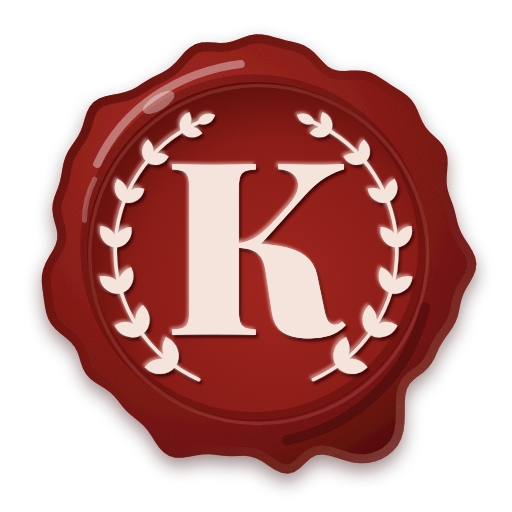
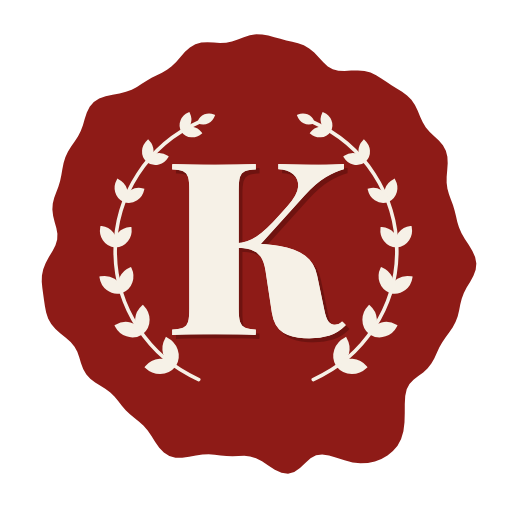
Герои: натюрморт целиком в кадре, только приближение; печать снова плоская; печать с названием в шапке ведёт на главную

Changed region(s): [[0.0625, 0.0625, 0.9375, 0.9688], [0.8125, 0.2188, 0.8438, 0.25], [0.5312, 0.625, 0.5625, 0.6562]]

diff --git a/index.html b/index.html
@@ -111,7 +111,10 @@ button:focus-visible,input:focus-visible,[tabindex]:focus-visible{outline:2px so
 /* ---------- masthead band ---------- */
 .top{position:absolute;left:0;right:0;top:0;height:var(--mast);box-sizing:border-box;display:flex;align-items:center;justify-content:space-between;gap:10px;padding:0 var(--s-lg);z-index:3;
   background:var(--ink);color:var(--canvas);}
-.logo{font-family:var(--display);font-weight:400;font-size:24px;letter-spacing:-.01em;line-height:1;color:var(--canvas);}
+.logo{display:inline-flex;align-items:center;gap:8px;padding:0;border:0;background:none;cursor:pointer;font-family:var(--display);font-weight:400;font-size:24px;letter-spacing:-.01em;line-height:1;color:var(--canvas);}
+.drag-hint.zoomy svg{display:none;}
+.logo img{width:34px;height:34px;flex:none;transition:transform .2s var(--ease-in);}
+.logo:hover img,.logo:focus-visible img{transform:rotate(-8deg) scale(1.08);}
 .top-right{display:flex;align-items:stretch;height:100%;}
 .plate{display:inline-flex;align-items:center;gap:5px;padding:0 var(--s-md);white-space:nowrap;
   font-family:var(--ui);font-size:12px;font-weight:500;letter-spacing:.06em;text-transform:uppercase;color:#b5b5b5;border-left:1px solid #333;}
@@ -540,11 +543,11 @@ body.present #resTiles,body.present .legend,body.present .rrow .p{display:none!i
   <div class="vignette"></div>
   <div class="drag-hint" id="dragHint">
     <svg viewBox="0 0 24 24" fill="none" stroke="currentColor" stroke-width="1.6" stroke-linecap="round" stroke-linejoin="round"><path d="M4 12h16M4 12l3-3M4 12l3 3M20 12l-3-3M20 12l-3 3"/></svg>
-    Потяните, чтобы осмотреться
+    <span id="dragTxt">Потяните, чтобы осмотреться</span>
   </div>
 
   <header class="top">
-    <div class="logo">Книгоскопъ</div>
+    <button class="logo" id="btnHome" title="На главную" aria-label="Книгоскопъ — на главную"><img src="img/emblem.png" alt="">Книгоскопъ</button>
     <div class="top-right">
       <div class="plate"><span class="rw">Глава</span> <b id="roundNum">1</b>&nbsp;из&nbsp;<b id="roundTot">6</b></div>
       <div class="plate" id="turnPlate" hidden></div>
@@ -1466,7 +1469,8 @@ const pano=$('pano'), strip=$('strip');
 strip.innerHTML=[0,1,2].map(()=>'<div class="ptile"><img alt=""><div class="spots"></div></div>').join('');
 const tiles=[...strip.querySelectorAll('.ptile')], imgs=tiles.map(t=>t.querySelector('img')), img=imgs[0];
 const P={x:0,y:0,w:0,h:0,z:1,vx:0,drag:null,idle:true,last:0,pinch:null,ptrs:new Map()};
-function baseScale(){const W=pano.clientWidth,H=pano.clientHeight;return Math.max(H/img.naturalHeight,W/img.naturalWidth);}
+function mastH(){const t=document.querySelector('.top');return t?t.offsetHeight:0;}
+function baseScale(){const W=pano.clientWidth,H=pano.clientHeight;if(P.flat)return Math.min((H-mastH())/img.naturalHeight,W/img.naturalWidth);return Math.max(H/img.naturalHeight,W/img.naturalWidth);}
 function sizePano(){const s=baseScale()*P.z;P.w=img.naturalWidth*s;P.h=img.naturalHeight*s;tiles.forEach(t=>{t.style.width=(P.w+1)+'px';t.style.marginRight='-1px';t.style.height=P.h+'px';});}
 function layoutPano(keep){
   if(!img.naturalWidth) return; const W=pano.clientWidth,H=pano.clientHeight;
@@ -1474,14 +1478,14 @@ function layoutPano(keep){
   sizePano(); P.x=W/2-u*P.w; P.y=H/2-v*P.h; clampPano(); applyPano();
 }
 function zoomPano(f,cx,cy){
-  if(!P.w) return; const z=Math.min(3.2,Math.max(0.5,P.z*f)); if(z===P.z) return;
+  if(!P.w) return; const z=P.flat?Math.min(5,Math.max(1,P.z*f)):Math.min(3.2,Math.max(0.5,P.z*f)); if(z===P.z) return;
   const r=pano.getBoundingClientRect(); cx=(cx??r.left+r.width/2)-r.left; cy=(cy??r.top+r.height/2)-r.top;
   const u=(cx-P.x)/P.w, v=(cy-P.y)/P.h; P.z=z; sizePano(); P.x=cx-u*P.w; P.y=cy-v*P.h; clampPano(); applyPano(); P.idle=false;
 }
-function clampPano(){const H=pano.clientHeight;P.y = P.h<=H ? (H-P.h)/2 : Math.min(0,Math.max(H-P.h,P.y));}
-function applyPano(){ if(!P.w) return; if(P.flat){const W=pano.clientWidth; P.x=Math.min(0,Math.max(W-P.w,P.x)); strip.style.transform=`translate3d(${P.x-P.w}px,${P.y}px,0)`; return;} const o=((P.x%P.w)+P.w)%P.w; strip.style.transform=`translate3d(${o-P.w}px,${P.y}px,0)`;}
+function clampPano(){const H=pano.clientHeight;if(P.flat){const m=mastH(),h=H-m;P.y=P.h<=h?m+(h-P.h)/2:Math.min(m,Math.max(H-P.h,P.y));return;}P.y = P.h<=H ? (H-P.h)/2 : Math.min(0,Math.max(H-P.h,P.y));}
+function applyPano(){ if(!P.w) return; if(P.flat){const W=pano.clientWidth; P.x=P.w<=W?(W-P.w)/2:Math.min(0,Math.max(W-P.w,P.x)); strip.style.transform=`translate3d(${P.x-P.w}px,${P.y}px,0)`; return;} const o=((P.x%P.w)+P.w)%P.w; strip.style.transform=`translate3d(${o-P.w}px,${P.y}px,0)`;}
 function loadScene(R){
-  strip.classList.add('loading'); P.z=1; P.flat=!!R.hero; tiles[0].style.visibility=tiles[2].style.visibility=P.flat?'hidden':'';
+  strip.classList.add('loading'); P.z=1; P.flat=!!R.hero; tiles[0].style.visibility=tiles[2].style.visibility=P.flat?'hidden':''; $('dragHint').classList.toggle('zoomy',P.flat); $('dragTxt').textContent=P.flat?'Приближайте, чтобы рассмотреть детали':'Потяните, чтобы осмотреться';
   const src=R.img.replace('/s_','/l_');
   img.onload=()=>{imgs.slice(1).forEach(i=>i.src=src);layoutPano(false);strip.classList.remove('loading');P.idle=true;$('dragHint').classList.remove('gone');};
   img.src=src; drawSpots(R);
@@ -2079,6 +2083,10 @@ function exitPresent(){ try{if(document.fullscreenElement) document.exitFullscre
   document.body.classList.remove('present'); $('pbar').hidden=true; $('pexit').hidden=true; if(S) S.present=false;
   $('result').hidden=true; $('final').hidden=true; $('intro').hidden=false; showStep('stepMode'); }
 $('pexit').onclick=exitPresent;
+$('btnHome').onclick=()=>{ const mid=S&&$('final').hidden&&$('intro').hidden;
+  if(mid&&!confirm('Закончить партию и вернуться на главную? Очки этой партии не сохранятся.')) return;
+  closeSheets(); $('spotNote').hidden=true; if(S&&S.present){exitPresent();return;}
+  $('result').hidden=true; $('final').hidden=true; $('intro').hidden=false; showStep('stepMode'); };
 addEventListener('keydown',e=>{
   if(!S||!S.present||!$('intro').hidden) return; const tg=document.activeElement&&document.activeElement.tagName; if(tg==='INPUT'||tg==='TEXTAREA') return;
   if(e.code==='Space'||e.key==='ArrowRight'||e.key==='PageDown'){e.preventDefault();pNext();}

diff --git a/mockups/logo/seal.html b/mockups/logo/seal.html
@@ -19,42 +19,10 @@ function blob(cx,cy,R0){let d='';const N=220;for(let i=0;i<=N;i++){const th=i/N*
 const B=blob(100,98,82);
 const wreath=sprig(100,98,55,114,246,7,11.5,3.8,1.4)+sprig(100,98,55,66,-66,7,11.5,3.8,1.4);
 const svg=`<svg xmlns="http://www.w3.org/2000/svg" viewBox="0 0 200 200" width="512" height="512">
-<defs>
-  <radialGradient id="body" cx="38%" cy="32%" r="78%">
-    <stop offset="0" stop-color="#c2382f"/><stop offset=".42" stop-color="#9a221c"/><stop offset=".8" stop-color="#7a1713"/><stop offset="1" stop-color="#4f0c09"/>
-  </radialGradient>
-  <radialGradient id="well" cx="56%" cy="60%" r="62%">
-    <stop offset="0" stop-color="#a1261f"/><stop offset=".7" stop-color="#8a1c17"/><stop offset="1" stop-color="#5e0f0b"/>
-  </radialGradient>
-  <linearGradient id="rimL" x1="0" y1="0" x2="1" y2="1"><stop offset="0" stop-color="#5a0d0a" stop-opacity=".9"/><stop offset=".55" stop-color="#5a0d0a" stop-opacity="0"/><stop offset="1" stop-color="#ffb3a3" stop-opacity=".55"/></linearGradient>
-  <filter id="drop" x="-30%" y="-30%" width="160%" height="160%"><feDropShadow dx="0" dy="3.2" stdDeviation="3.4" flood-color="#2a0605" flood-opacity=".45"/></filter>
-  <filter id="grain" x="0" y="0" width="100%" height="100%"><feTurbulence type="fractalNoise" baseFrequency="1.6" numOctaves="2" seed="7"/><feColorMatrix values="0 0 0 0 0  0 0 0 0 0  0 0 0 0 0  0 0 0 .22 0"/><feComposite in2="SourceGraphic" operator="in"/></filter>
-  <filter id="emboss" x="-10%" y="-10%" width="120%" height="120%">
-    <feGaussianBlur in="SourceAlpha" stdDeviation=".7" result="b"/>
-    <feOffset in="b" dx=".9" dy="1.3" result="o1"/><feFlood flood-color="#3a0706" flood-opacity=".85"/><feComposite in2="o1" operator="in" result="sh"/>
-    <feOffset in="b" dx="-.6" dy="-.8" result="o2"/><feFlood flood-color="#ffd9cf" flood-opacity=".55"/><feComposite in2="o2" operator="in" result="hl"/>
-    <feMerge><feMergeNode in="sh"/><feMergeNode in="hl"/><feMergeNode in="SourceGraphic"/></feMerge>
-  </filter>
-  <clipPath id="clip"><path d="${B}"/></clipPath>
-</defs>
-<g filter="url(#drop)"><path d="${B}" fill="url(#body)"/></g>
-<g clip-path="url(#clip)">
-  <path d="${B}" fill="none" stroke="url(#rimL)" stroke-width="7"/>
-  <rect width="200" height="200" fill="#000" filter="url(#grain)" opacity=".7"/>
-  <!-- оттиск: утопленная площадка без контура -->
-  <circle cx="100" cy="98" r="66" fill="url(#well)"/>
-  <circle cx="100" cy="98" r="66" fill="none" stroke="#4a0a08" stroke-opacity=".35" stroke-width="3.6" transform="translate(-.9 -1.2)"/>
-  <circle cx="100" cy="98" r="66" fill="none" stroke="#e57a6c" stroke-opacity=".22" stroke-width="1.4" transform="translate(1 1.4)"/>
-  <!-- блики на валике -->
-  <path d="M38 64 C48 42 70 28 94 25" fill="none" stroke="#fff" stroke-opacity=".38" stroke-width="3.2" stroke-linecap="round"/>
-  <path d="M33 86 C33 80 35 74 37 70" fill="none" stroke="#fff" stroke-opacity=".25" stroke-width="2" stroke-linecap="round"/>
-  <ellipse cx="62" cy="40" rx="7" ry="3" transform="rotate(-32 62 40)" fill="#fff" opacity=".35"/>
-  <path d="M166 120 C160 146 140 166 112 172" fill="none" stroke="#2c0504" stroke-opacity=".35" stroke-width="4" stroke-linecap="round"/>
-</g>
-<g filter="url(#emboss)">
-  <g fill="#f4e4dc" stroke="#f4e4dc">${wreath}</g>
-  <text x="100" y="131" text-anchor="middle" font-family="Playfair Display" font-weight="900" font-size="94" fill="#f4e4dc">К</text>
-</g>
+<path d="${B}" fill="#8e1b17"/>
+<g fill="#f6f1e7" stroke="#f6f1e7">${wreath}</g>
+<text x="101.5" y="132.5" text-anchor="middle" font-family="Playfair Display" font-weight="900" font-size="94" fill="#5c0f0c" opacity=".6">К</text>
+<text x="100" y="131" text-anchor="middle" font-family="Playfair Display" font-weight="900" font-size="94" fill="#f6f1e7">К</text>
 </svg>`;
 document.getElementById('box').innerHTML=svg;
 window.SVG=svg;
